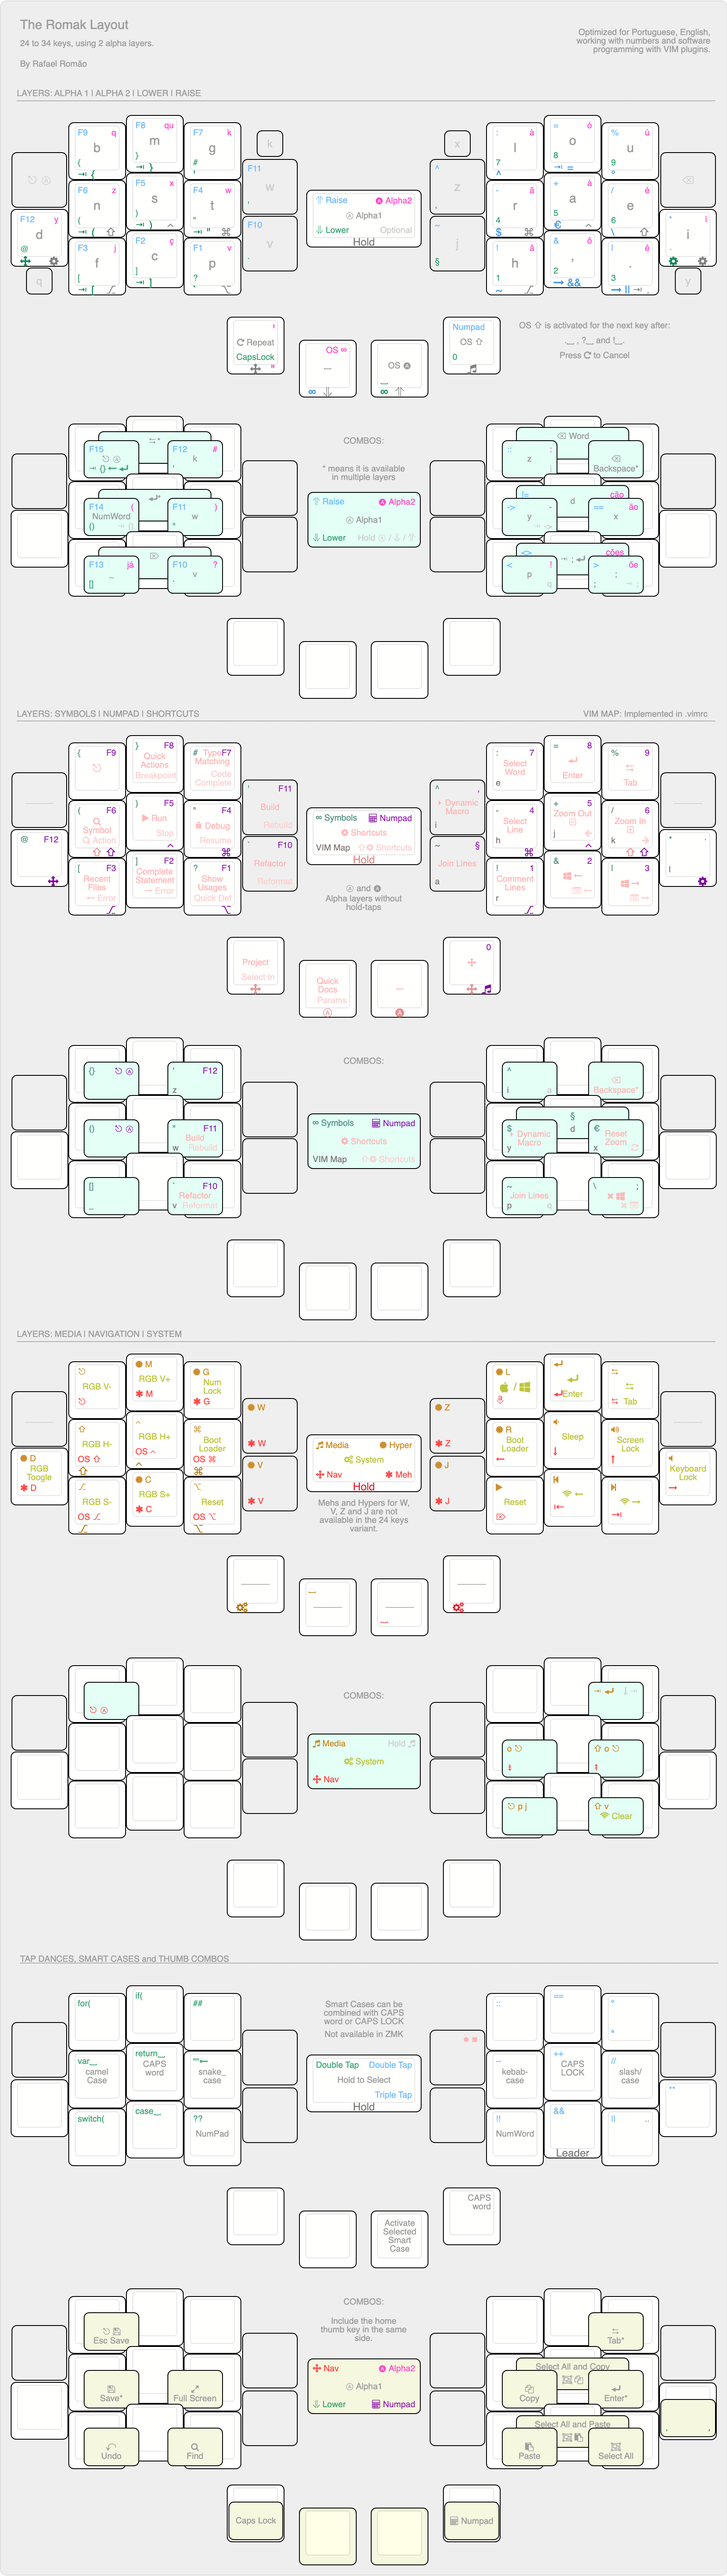
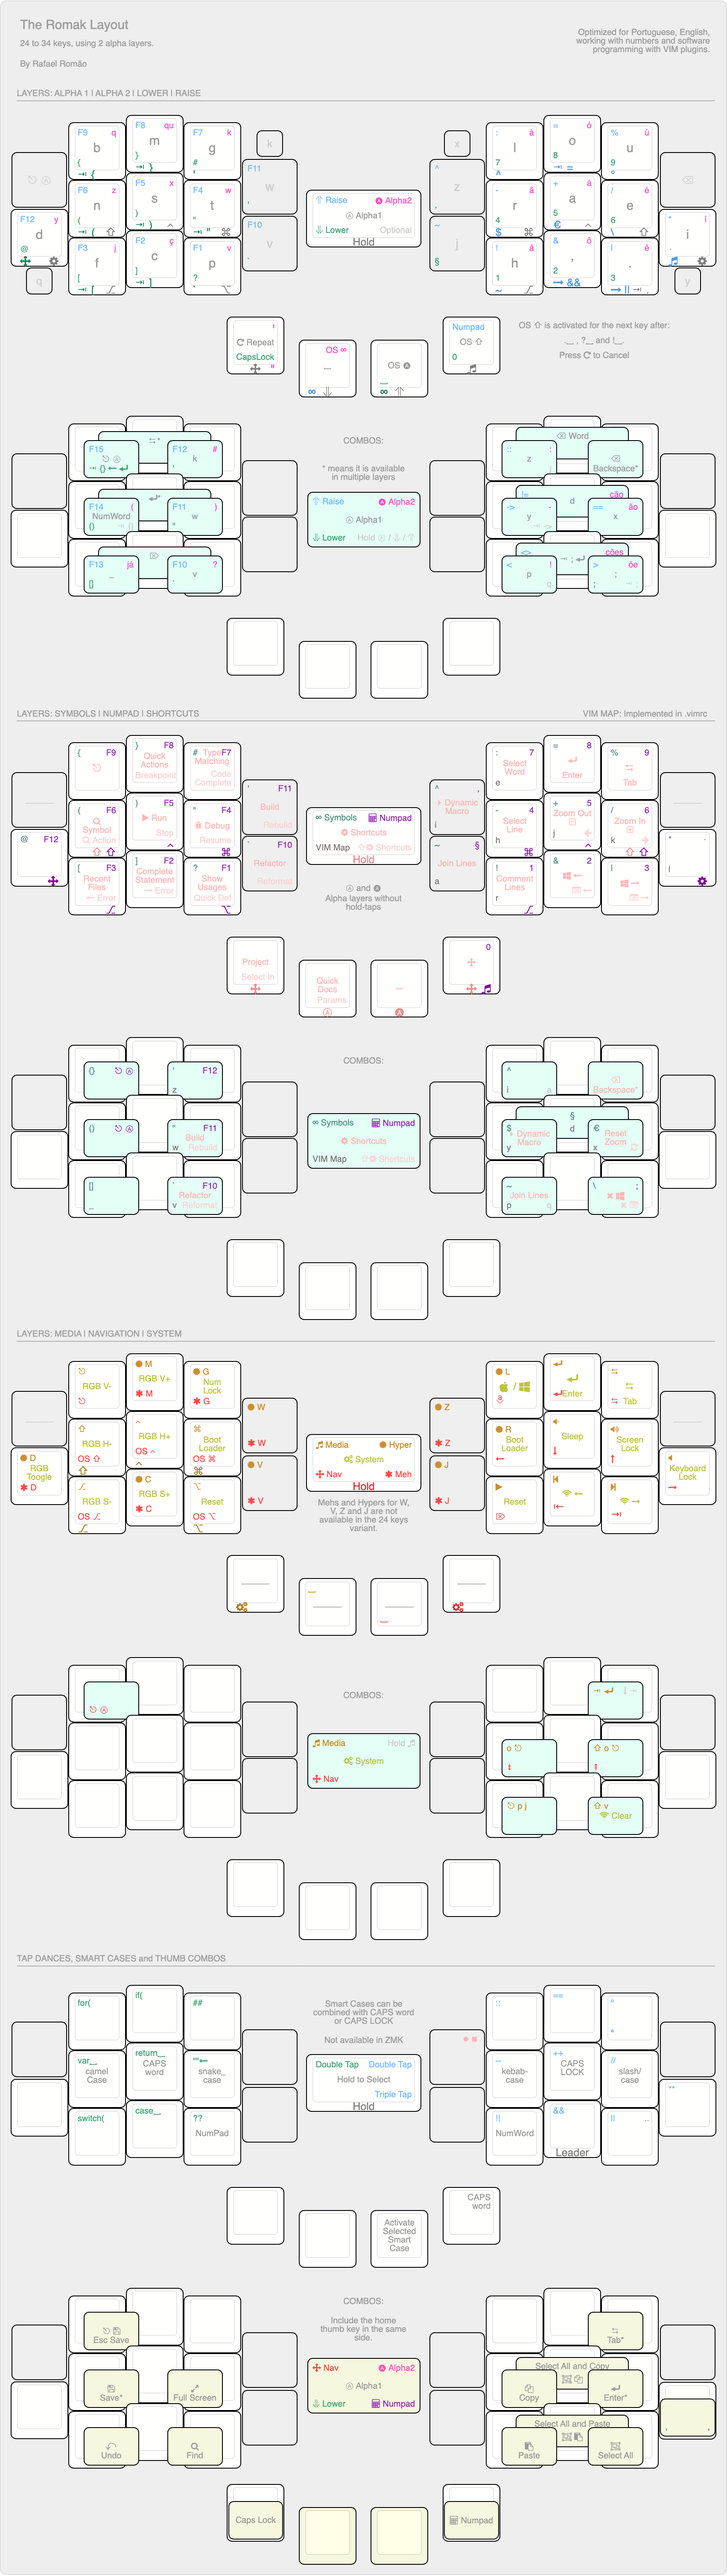
add shortcut to media in the raise layer

diff --git a/src/qmk/users/rafaelromao/definitions/keymap_blocks.h b/src/qmk/users/rafaelromao/definitions/keymap_blocks.h
@@ -61,7 +61,7 @@
 #define                               ____LOWER_L4_____                               KC_CAPS , _______
 
 #define           _________LOWER_R1____________________           KC_7    , KC_8    , KC_9    , _______
-#define ___________________LOWER_R2____________________ KC_COMM , KC_4    , KC_5    , KC_6    , SHO_DOT
+#define ___________________LOWER_R2____________________ KC_COMM , KC_4    , KC_5    , KC_6    , KC_DOT
 #define ___________________LOWER_R3__________           MC_SEC  , KC_1    , KC_2    , KC_3    
 #define ____LOWER_R4_____                               SYM_SPC , MED_0
 
@@ -71,7 +71,7 @@
 #define                               ____RAISE_L4_____                               QK_REP  , SYM_SPC
 
 #define           _________RAISE_R1____________________           TD_COLN , TD_EQL  , TD_PERC , _______
-#define ___________________RAISE_R2____________________ MC_CIRC , TD_MINS , TD_PLUS , TD_SLSH , KC_ASTR
+#define ___________________RAISE_R2____________________ MC_CIRC , TD_MINS , TD_PLUS , TD_SLSH , MED_AST
 #define ___________________RAISE_R3__________           MC_TILD , TD_EXLM , TD_AND  , TD_OR     
 #define ____RAISE_R4_____                               _______ , TG_NUM
 
@@ -81,7 +81,7 @@
 #define                               __SYMBOLS_L4_____                               KC_CAPS , KC_SPC 
 
 #define           _______SYMBOLS_R1____________________           TD_COLN , TD_EQL  , TD_PERC , _______
-#define _________________SYMBOLS_R2____________________ MC_CIRC , TD_MINS , TD_PLUS , TD_SLSH , KC_ASTR
+#define _________________SYMBOLS_R2____________________ MC_CIRC , TD_MINS , TD_PLUS , TD_SLSH , MED_AST
 #define _________________SYMBOLS_R3__________           MC_TILD , TD_EXLM , TD_AND  , TD_OR     
 #define __SYMBOLS_R4_____                               KC_SPC  , TG_NUM
 

diff --git a/src/qmk/users/rafaelromao/features/taphold.c b/src/qmk/users/rafaelromao/features/taphold.c
@@ -68,6 +68,13 @@ process_record_result_t process_taphold(uint16_t keycode, keyrecord_t *record) {
             }
             break;
 
+        case MED_AST:
+            if (record->event.pressed && record->tap.count) {
+                tap_code16(KC_ASTR);
+                return PROCESS_RECORD_RETURN_FALSE;
+            }
+            break;
+
         case NMO_DOC:
             if (record->event.pressed && record->tap.count) {
                 process_macros(MC_QDOC, NULL);

diff --git a/src/qmk/users/rafaelromao/definitions/keycodes.h b/src/qmk/users/rafaelromao/definitions/keycodes.h
@@ -209,6 +209,7 @@ enum {
 #define MED_CAS LT(_MEDIA, TG_CASE)
 #define MED_A1  LT(_MEDIA, TO_A1)
 #define MED_0   LT(_MEDIA, KC_0)
+#define MED_AST LT(_MEDIA, KC_ASTR)
 
 #define MAI_CAS LT(_SYSTEM, TG_CASE)
 
